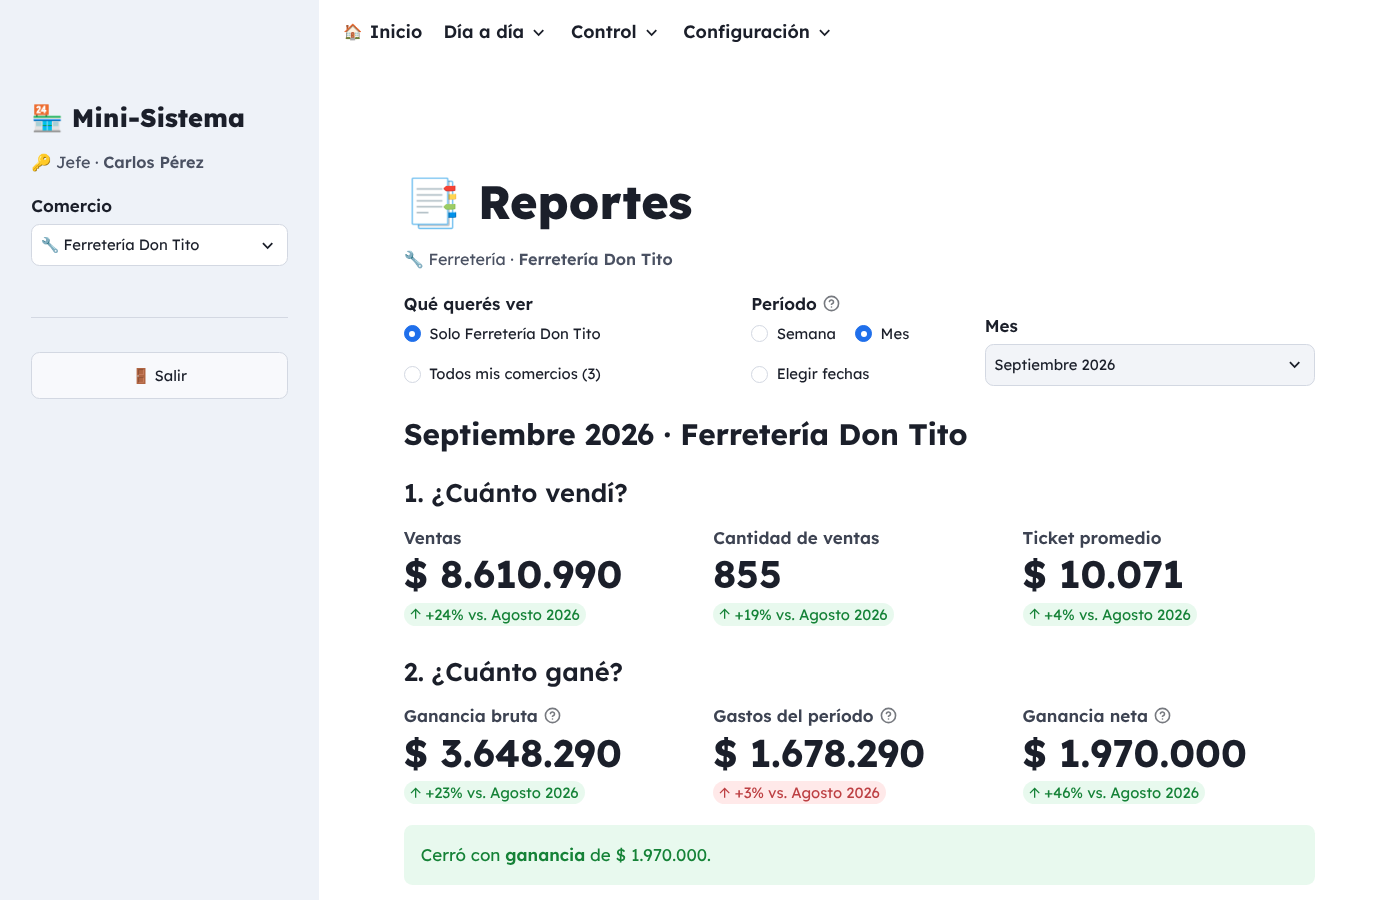
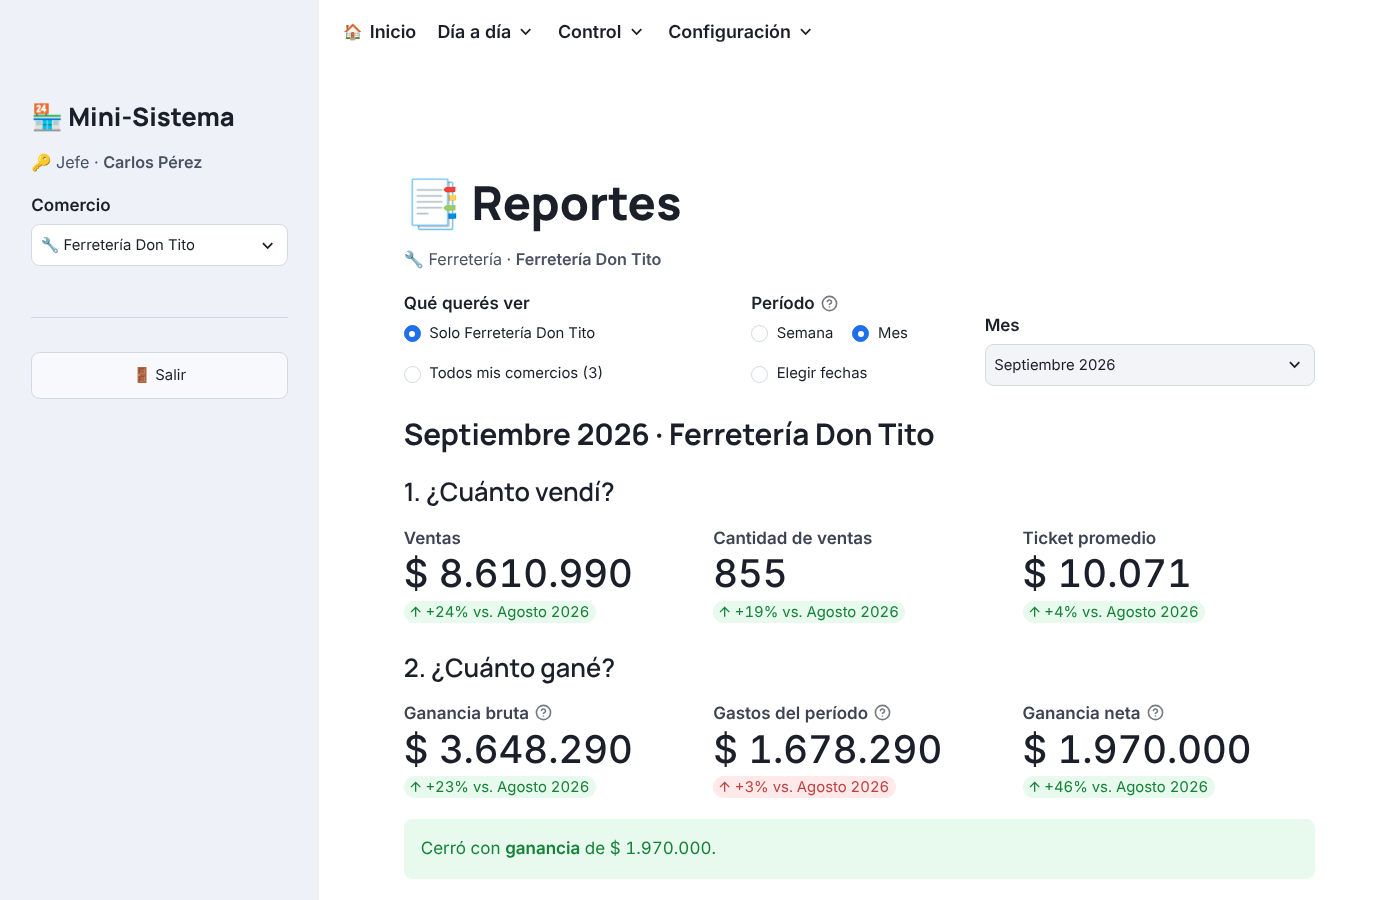
Tipografía Inter para todo y Manrope para los títulos
Inter se lee muy bien en pantalla y sus números tienen el mismo ancho, así los
precios quedan alineados. Manrope en los títulos le da un toque propio.

Claude-Session: https://claude.ai/code/session_013MiRa8bg68iYCC9FLNK3SH

diff --git a/comun.py b/comun.py
@@ -41,14 +41,17 @@ MES_FIN_TEMPORADA = 3         # en marzo sugiere apagarlo
 # Retoques visuales de todo el sistema (lo que no se puede cambiar desde .streamlit/config.toml).
 # Pensado para que se lea bien a cualquier edad: letra oscura, etiquetas más grandes y botones cómodos.
 ESTILOS = """<style>
-/* Tipografía Lexend. También está en .streamlit/config.toml, pero se carga acá por las dudas:
-   las versiones viejas de Streamlit ignoran esa opción, y así se ve igual en cualquier PC */
-@import url("https://fonts.googleapis.com/css2?family=Lexend:wght@400;500;600;700;800&display=swap");
-.stApp, .stApp p, .stApp li, .stApp label, .stApp h1, .stApp h2, .stApp h3, .stApp h4, .stApp h5, .stApp h6,
-.stApp button, .stApp input, .stApp textarea, .stApp [data-baseweb="select"] div,
-.stApp [data-testid="stMetricValue"], .stApp [data-testid="stMarkdownContainer"] {
-    font-family: "Lexend", sans-serif;
+/* Tipografía: Inter para todo (se lee muy bien en pantalla y sus números tienen todos el mismo ancho,
+   así los precios quedan alineados) y Manrope para los títulos, que le da un toque propio.
+   También está en .streamlit/config.toml, pero se carga acá por las dudas: las versiones viejas
+   de Streamlit ignoran esa opción, y así se ve igual en cualquier PC */
+@import url("https://fonts.googleapis.com/css2?family=Inter:wght@400;500;600;700&family=Manrope:wght@600;700;800&display=swap");
+.stApp, .stApp p, .stApp li, .stApp label, .stApp button, .stApp input, .stApp textarea,
+.stApp [data-baseweb="select"] div, .stApp [data-testid="stMetricValue"], .stApp [data-testid="stMarkdownContainer"] {
+    font-family: "Inter", sans-serif;
 }
+.stApp h1, .stApp h2, .stApp h3, .stApp h4, .stApp h5, .stApp h6 { font-family: "Manrope", "Inter", sans-serif; }
+.stApp [data-testid="stMetricValue"], .stApp [data-testid="stMarkdownContainer"] p { font-variant-numeric: tabular-nums; }
 
 /* Detalles de Streamlit que no le sirven al comercio: el cartel "Running", la barrita de colores de arriba,
    el menú de desarrollador y los avisos en inglés dentro de los casilleros ("Press Enter to submit form") */
